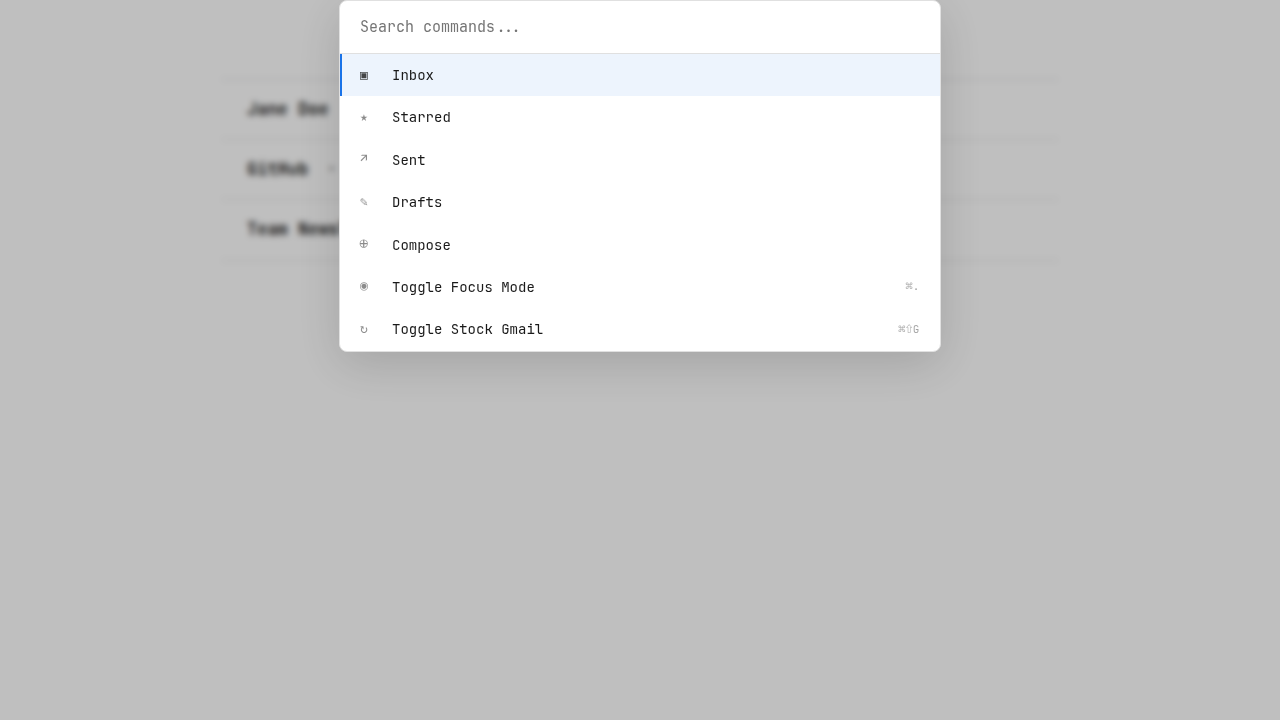
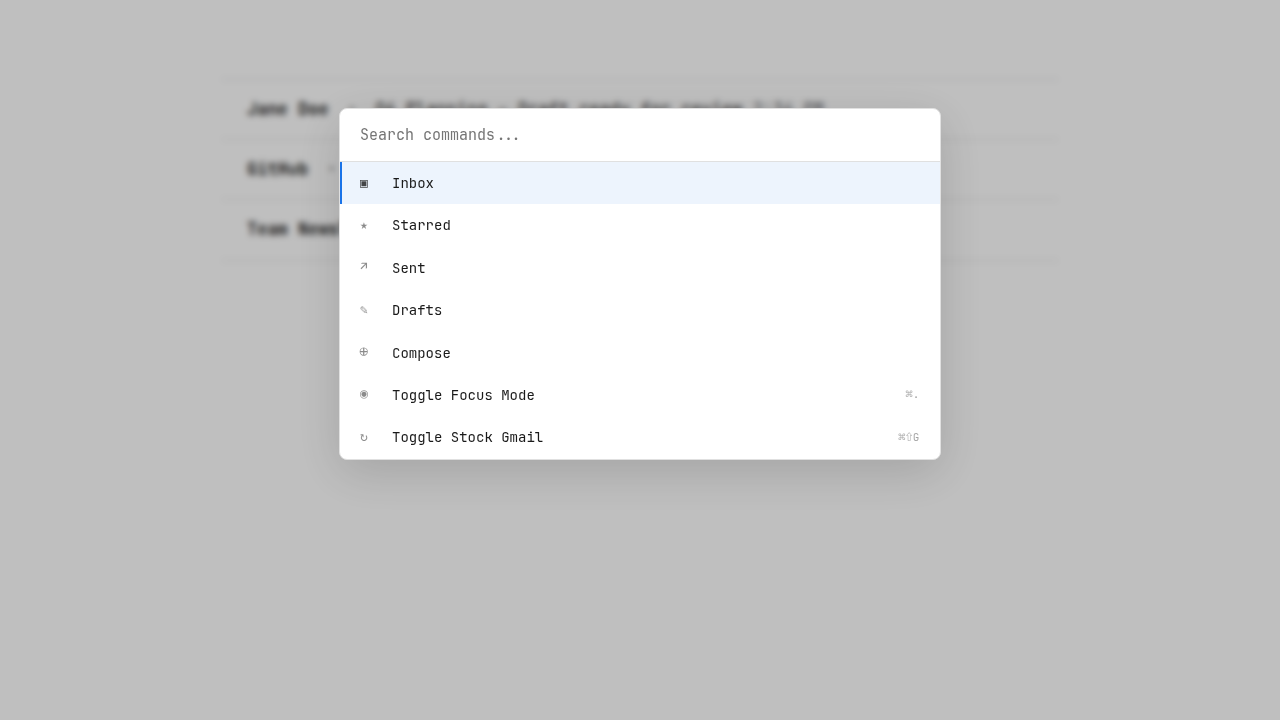
Fix palette card offset: use margin-top instead of padding-top
Palette card now properly offset 15vh from top (was at y=0).

Changes:
- Palette .palette CSS: margin-top: 15vh (was padding-top on host)
- Test assertion: now checks cardOffsetFromTop (card's actual position)
- Screenshot 05-palette.png regenerated with card visibly offset

All tests passing with cardOffsetFromTop assertion.

Changed region(s): [[0.25, 0.0, 0.75, 0.6417]]

diff --git a/tests/screenshots.spec.js b/tests/screenshots.spec.js
@@ -292,10 +292,7 @@ test.describe('Mail.md Visual Tests', () => {
     
     expect(state.paletteExists).toBe(true);
     expect(state.backdropCoversTop).toBe(true);
-    // Card should be offset - if it's null or at top, log for debugging but don't fail
-    if (state.paletteCardTop !== null && state.paletteCardTop <= 50) {
-      console.log(`Palette card top: ${state.paletteCardTop}px (expected > 50px)`);
-    }
+    expect(state.cardOffsetFromTop).toBe(true); // Card should be > 50px from top (~15vh)
     expect(state.bannerHidden).toBe(true);
     expect(state.inboxVisible).toBe(true);
     

diff --git a/tests/content-test.js b/tests/content-test.js
@@ -120,7 +120,6 @@
         display: flex;
         align-items: flex-start;
         justify-content: center;
-        padding-top: 15vh;
         background: rgba(0, 0, 0, 0.25);
         backdrop-filter: blur(3px);
       }
@@ -134,7 +133,7 @@
         box-shadow: 0 12px 48px rgba(0, 0, 0, 0.15);
         overflow: hidden;
         font-family: 'iA Writer Duo', 'SF Mono', Monaco, Menlo, Consolas, monospace;
-        margin-top: 0;
+        margin-top: 15vh;
       }
 
       [data-gmd-theme="dark"] .palette {
